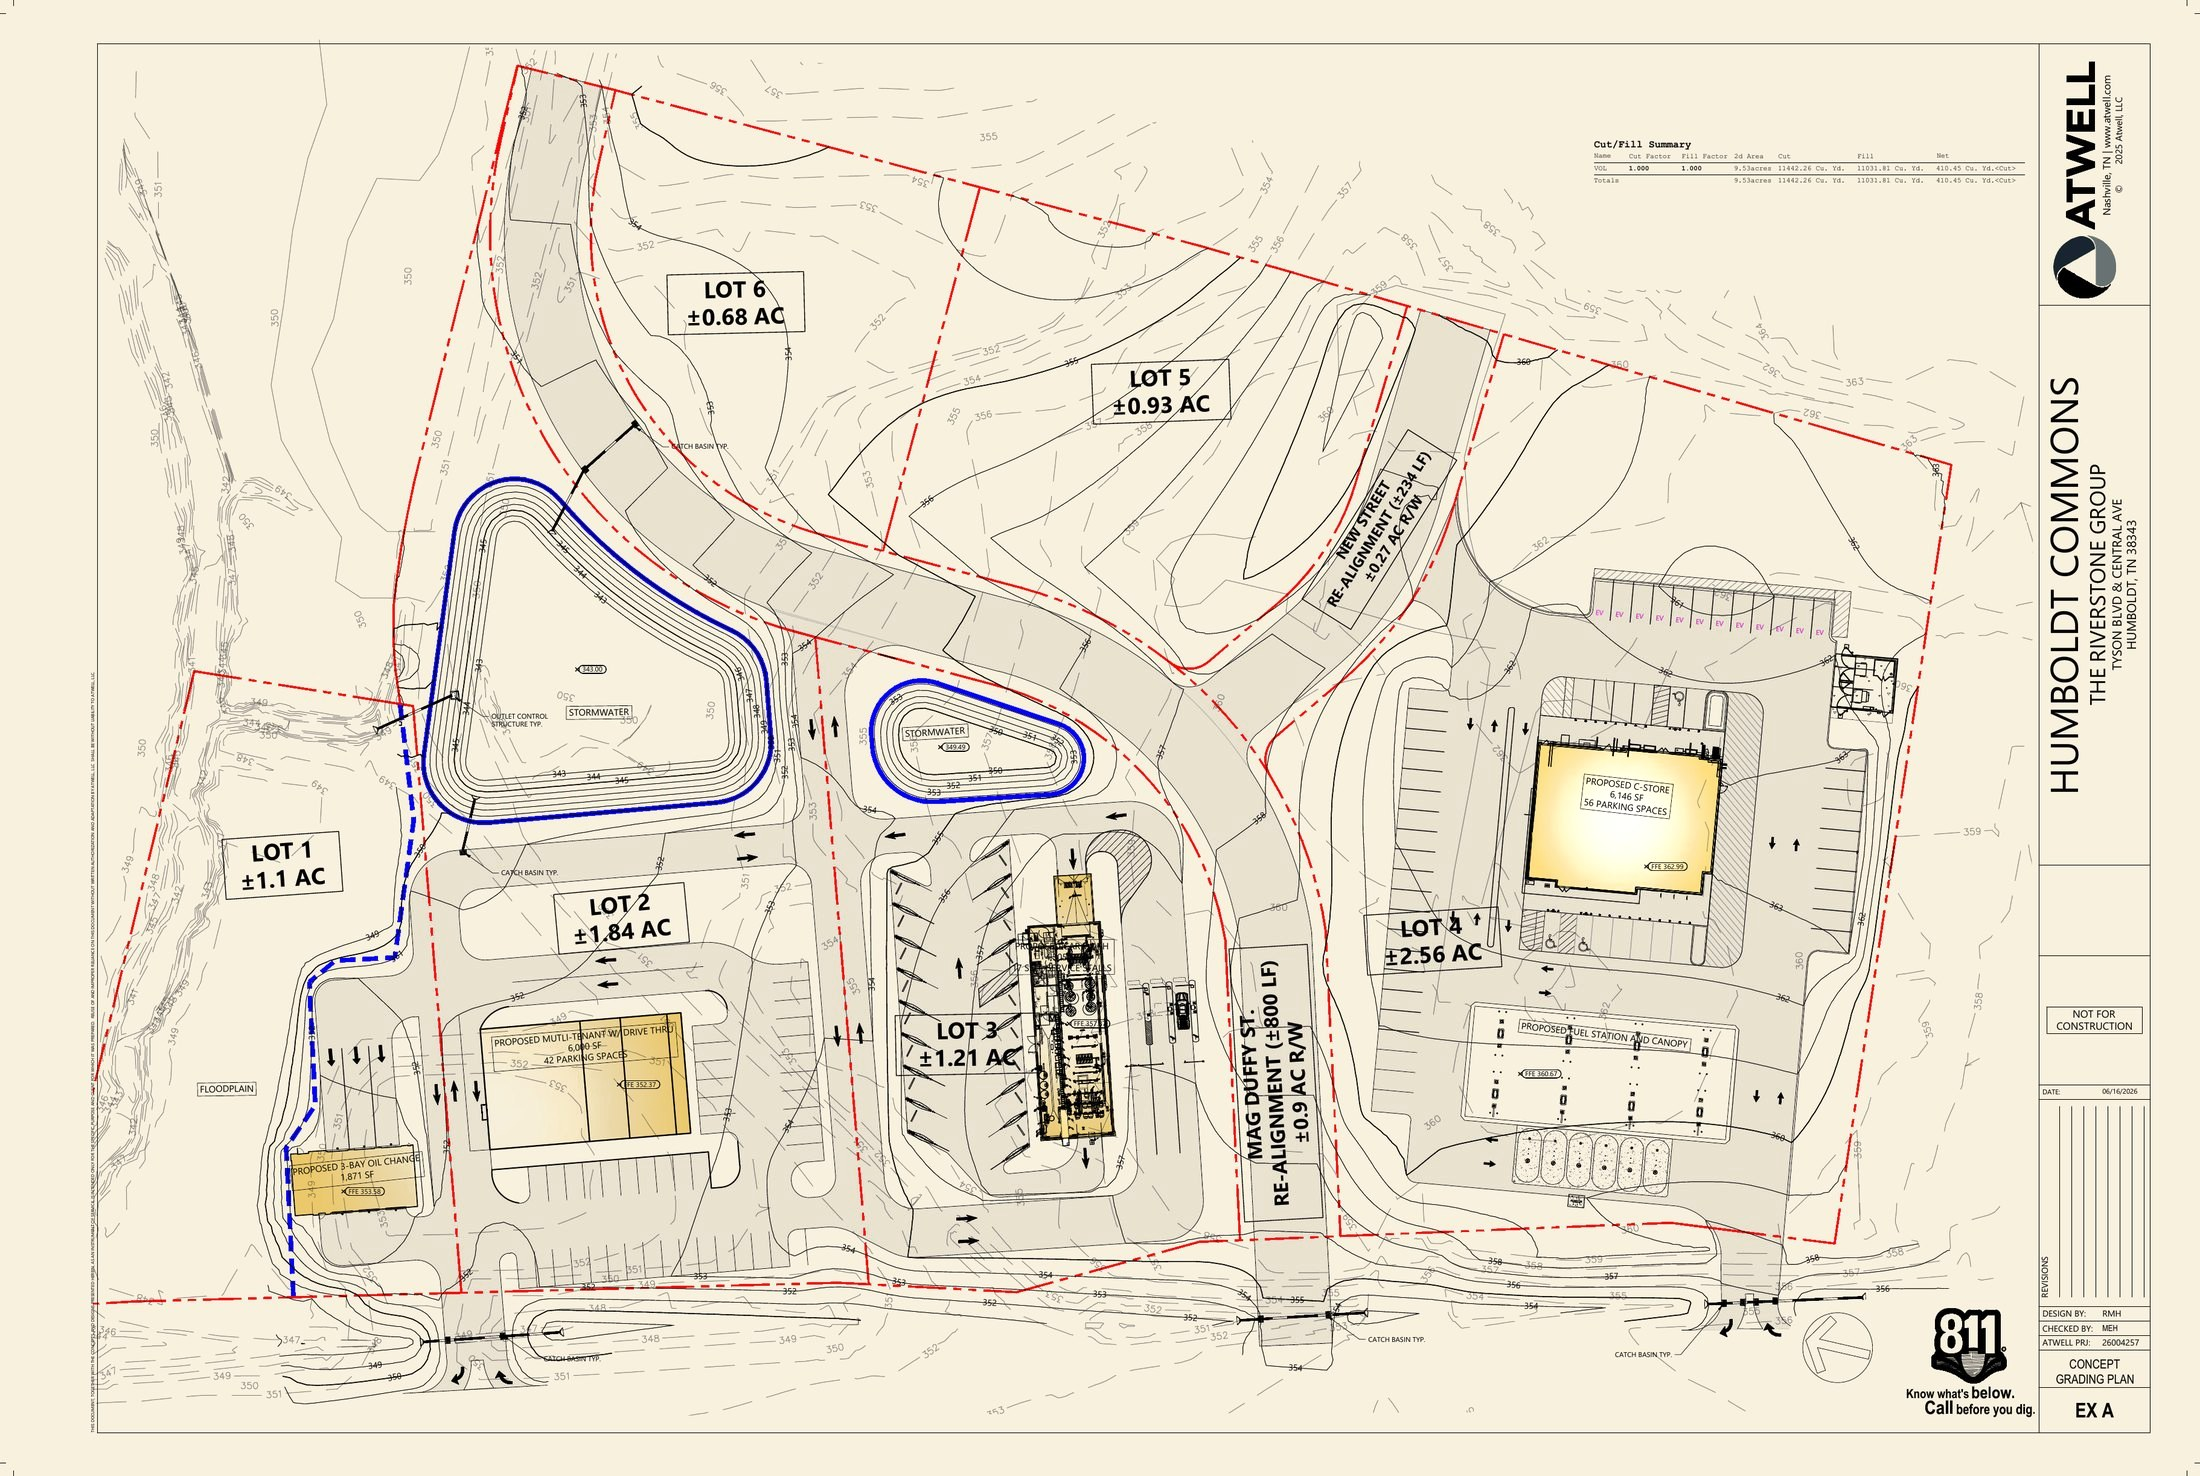
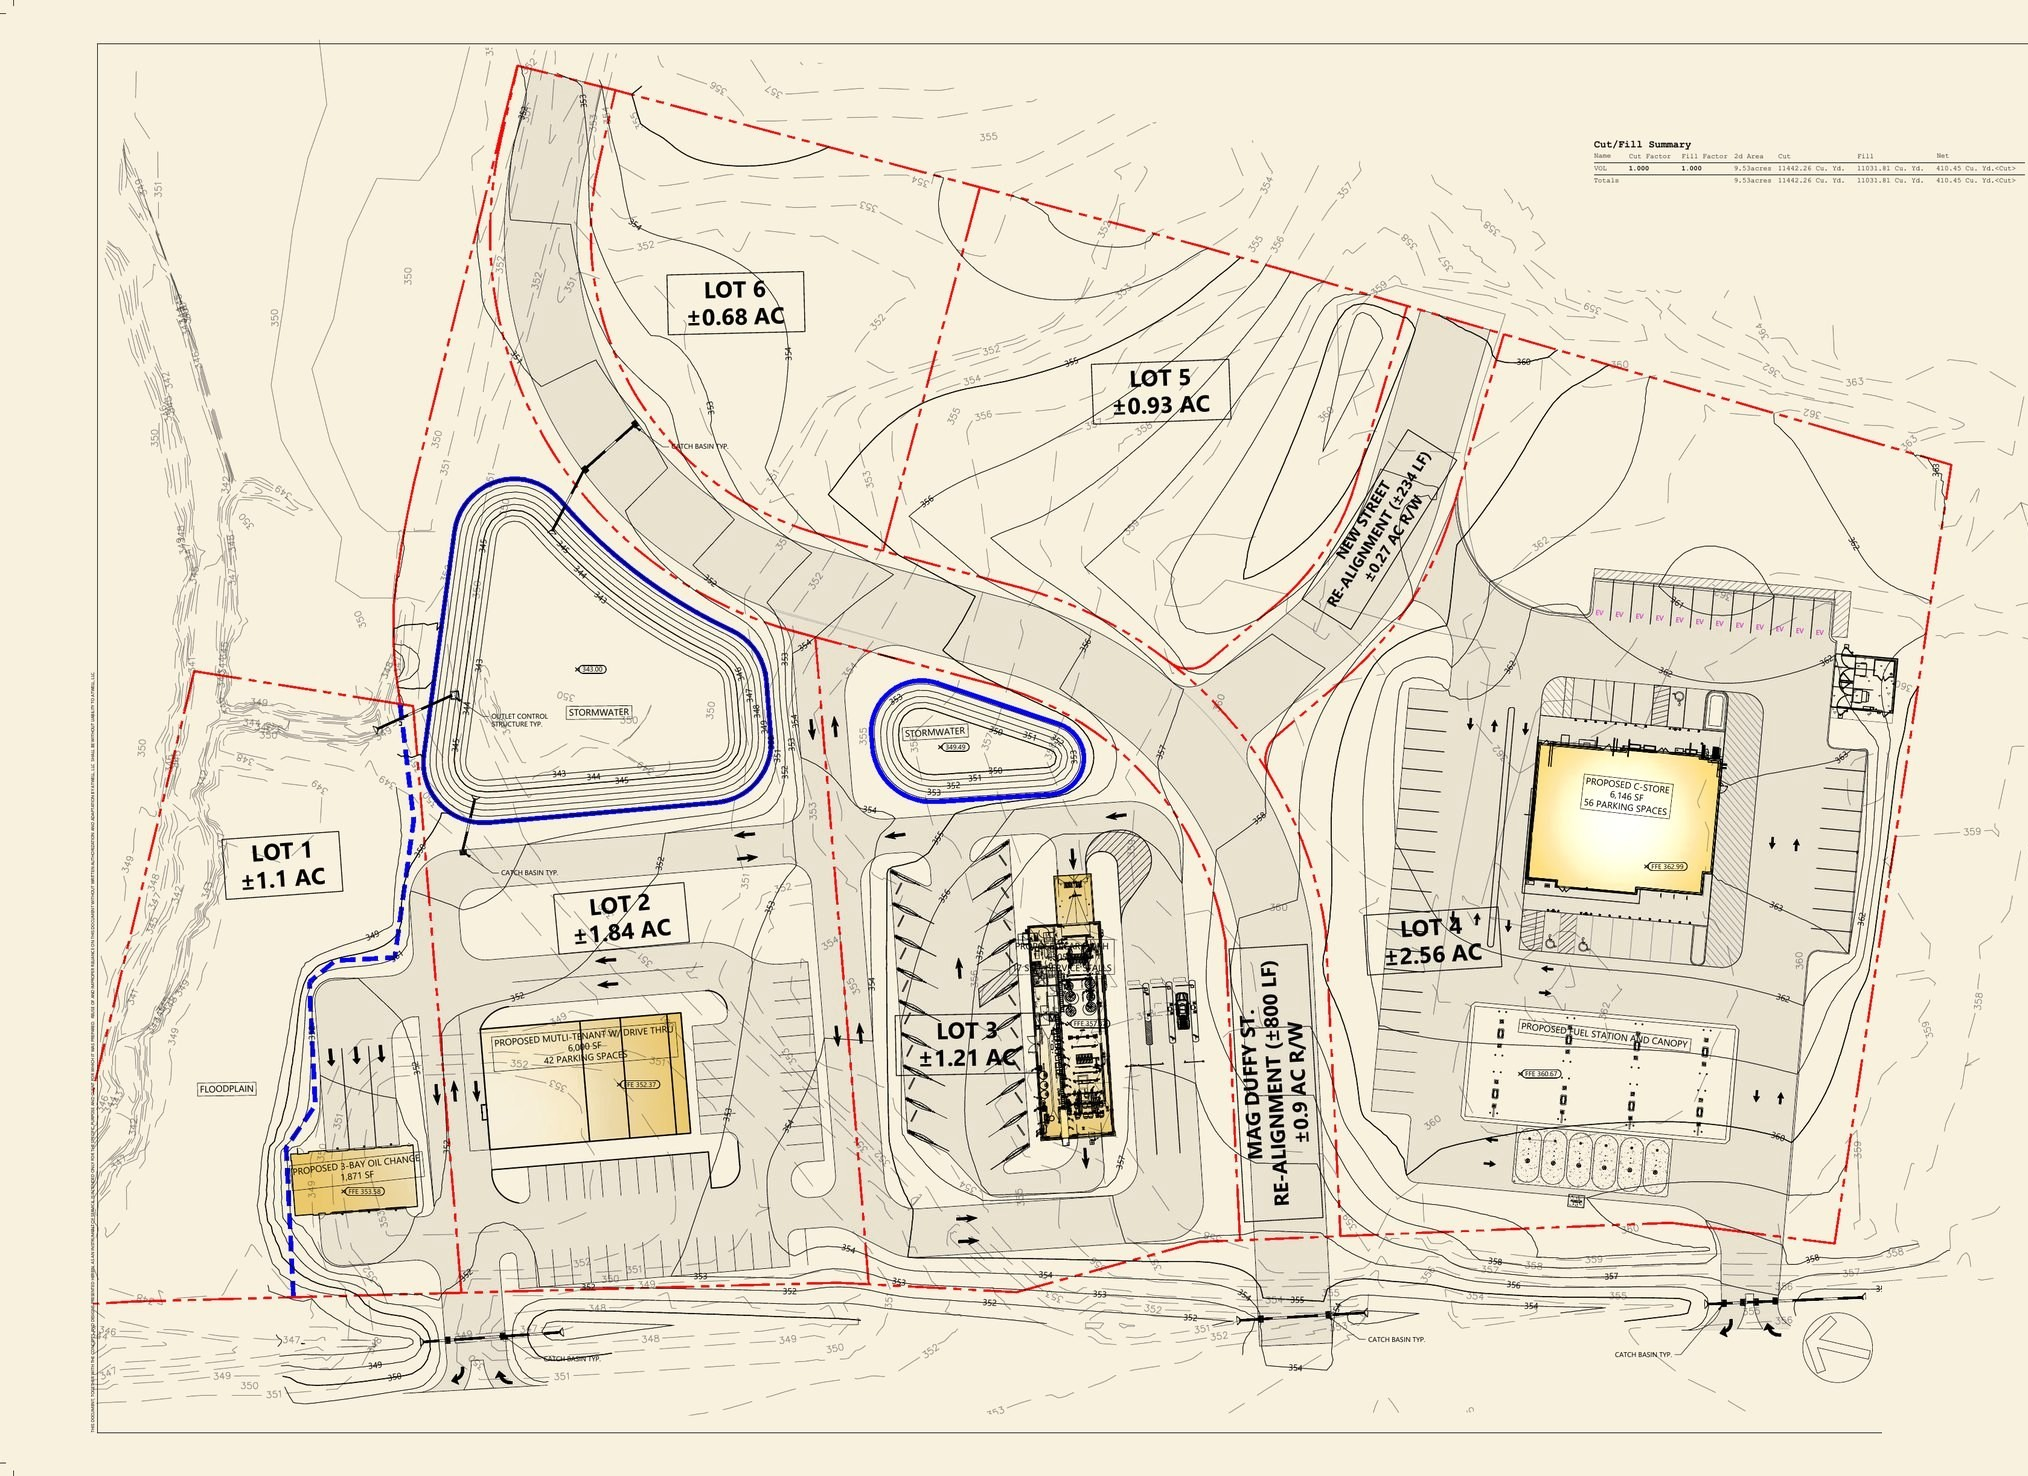
People: update Emily Dale bio (broker/hospitality), keep Outside the Office; 12 South: remove the site plan; Village Commons: crop the Atwell title block + 811 notice off the East site plan

diff --git a/people.html b/people.html
@@ -127,9 +127,9 @@
           <h2 class="rs-bio__name">Emily Dale</h2>
           <span class="rs-bio__role">Marketing &amp; Leasing</span>
           <div class="rs-bio__text">
-            <p class="rs-bio__lede">Emily helps lead operations at The Riverstone Group, drawing on more than a decade of business ownership in hospitality.</p>
+            <p class="rs-bio__lede">As a commercial real estate broker with 17 years of experience in the hospitality industry and as a restaurant owner, Emily Dale brings a unique perspective to real estate.</p>
             <p class="rs-bio__label">Experience</p>
-            <p>Her years as a business owner give her a distinctive lens on commercial real estate, and a deep care for clients and guests. Emily oversees project management and assists with marketing, bringing creativity, organization, and a passion for lifelong learning to every field she touches.</p>
+            <p>She approaches each opportunity with a focus on service, relationships, and thoughtful development. Her firsthand experience as a business owner gives her a deep understanding of the needs of tenants, investors, and developers, as well as the important role real estate plays in building successful businesses and vibrant communities.</p>
             <p class="rs-bio__label">Outside the Office</p>
             <p>Emily and her husband Steve have a seven-year-old daughter and three dogs.</p>
           </div>

diff --git a/12th-south.html b/12th-south.html
@@ -220,11 +220,6 @@
     </figure>
   </section>
 
-  <!-- ==================================================== 7 · PLAN (floor, full bleed) -->
-  <figure class="sp-figure sp-figure--bleed rs-reveal" style="margin-top:clamp(60px,9vw,130px);">
-    <img src="assets/projects/12th-south-plan.jpg" alt="Floor plan — the 12th Avenue Retail building with Tenant 01 and Tenant 02, storefront systems, and wall details">
-  </figure>
-
   <!-- ==================================================== 9 · LOCATION -->
   <section class="sp-sec">
     <div class="sp-head rs-reveal">
